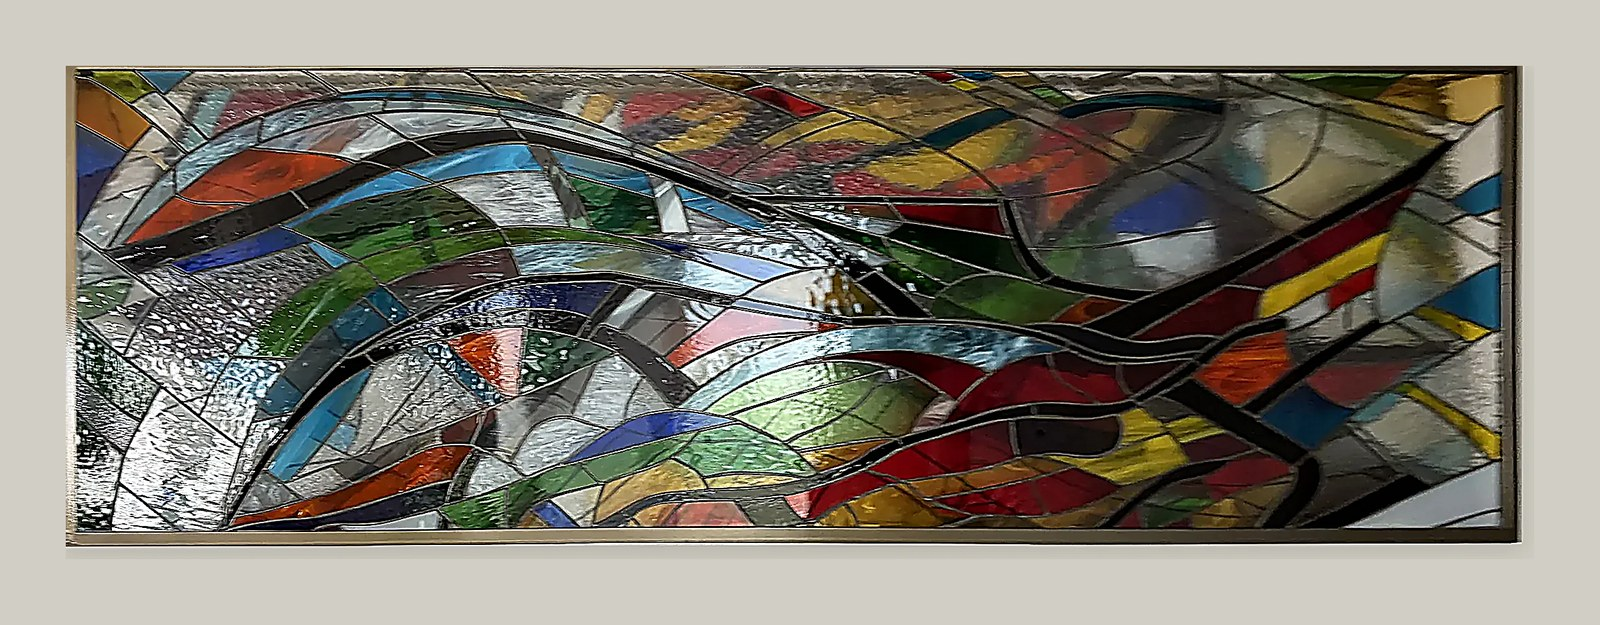
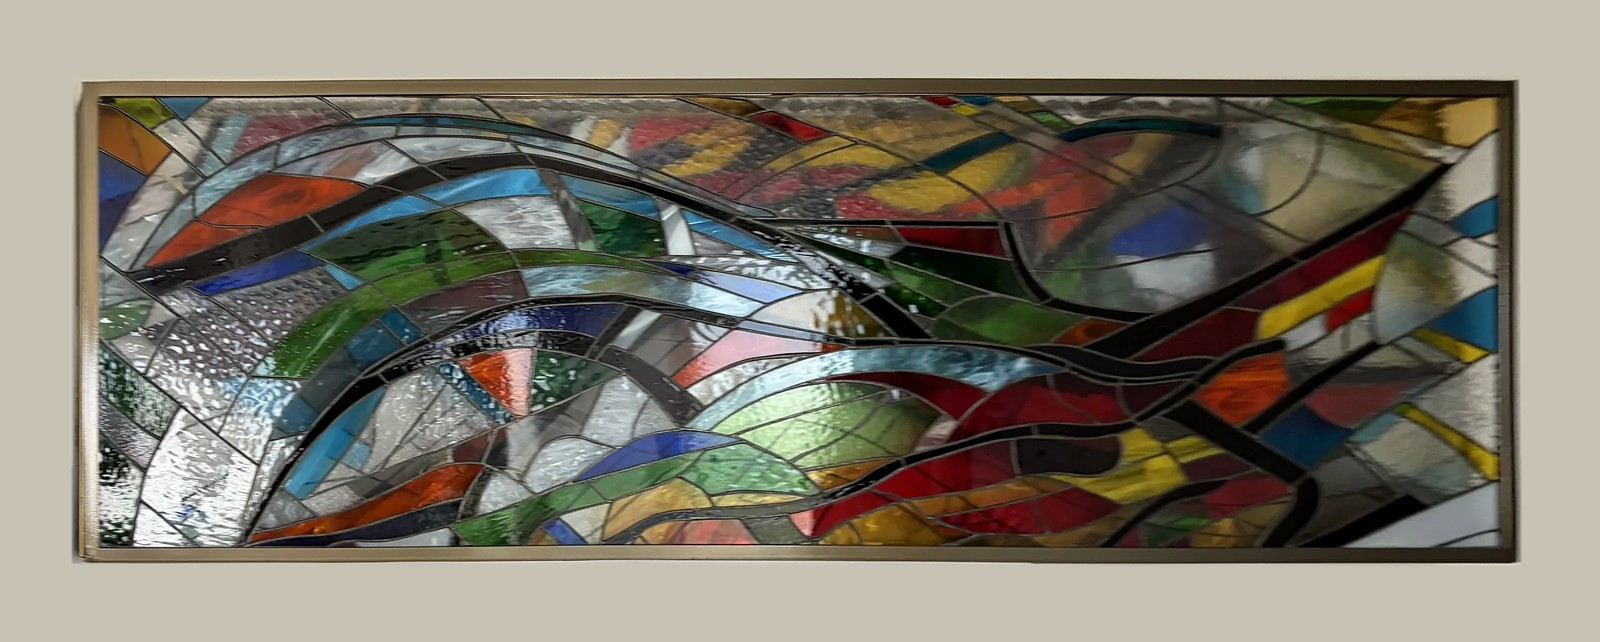
Double Vitrage second photo: original framing back, frame untouched, only the wall evened out
Claude-Session: https://claude.ai/code/session_01H5rr4wkNMnuxgQx68mK7Ng

diff --git a/gallery/double-vitrage/index.html b/gallery/double-vitrage/index.html
@@ -99,7 +99,7 @@
                     <a class="photo-view__arrow photo-view__arrow--next" href="../exhibition-piece/" rel="next" aria-label="Next photo: Epsilon Y"><svg viewBox="0 0 24 24" aria-hidden="true"><path d="M9 5l7 7-7 7"/></svg></a>
                 </div>
                 <div class="photo-more">
-                    <div class="photo-more__item" style="flex:2.561 1 0"><picture><source type="image/webp" srcset="../../img/opt/double-vitrage-02-800.webp?v=2 800w, ../../img/opt/double-vitrage-02-1600.webp?v=2 1600w, ../../img/opt/double-vitrage-02-2400.webp?v=2 2400w" sizes="(max-width: 640px) 100vw, 1000px"><img src="../../img/opt/double-vitrage-02-1600.jpg?v=2" alt="Double Vitrage — Arthemii Ionaere" loading="lazy" decoding="async"></picture></div>
+                    <div class="photo-more__item" style="flex:2.492 1 0"><picture><source type="image/webp" srcset="../../img/opt/double-vitrage-02-800.webp?v=3 800w, ../../img/opt/double-vitrage-02-1600.webp?v=3 1600w, ../../img/opt/double-vitrage-02-2400.webp?v=3 2400w" sizes="(max-width: 640px) 100vw, 1000px"><img src="../../img/opt/double-vitrage-02-1600.jpg?v=3" alt="Double Vitrage — Arthemii Ionaere" loading="lazy" decoding="async"></picture></div>
                 </div>
                 <h1 style="font-family:var(--font-serif);font-size:clamp(1.25rem,3vw,1.75rem);font-weight:400;margin-bottom:var(--spacing-xs)">Double Vitrage</h1>
                 <p style="color:var(--text-secondary);font-size:0.9375rem;line-height:1.7">A double stained glass panel: two layers of stained glass are set one over the other, so that their lines and colours overlap and create an effect of depth that changes with the light and the viewing angle.</p>

diff --git a/de/gallery/double-vitrage/index.html b/de/gallery/double-vitrage/index.html
@@ -99,7 +99,7 @@
                     <a class="photo-view__arrow photo-view__arrow--next" href="../exhibition-piece/" rel="next" aria-label="Next photo: Epsilon Y"><svg viewBox="0 0 24 24" aria-hidden="true"><path d="M9 5l7 7-7 7"/></svg></a>
                 </div>
                 <div class="photo-more">
-                    <div class="photo-more__item" style="flex:2.561 1 0"><picture><source type="image/webp" srcset="../../img/opt/double-vitrage-02-800.webp?v=2 800w, ../../img/opt/double-vitrage-02-1600.webp?v=2 1600w, ../../img/opt/double-vitrage-02-2400.webp?v=2 2400w" sizes="(max-width: 640px) 100vw, 1000px"><img src="../../img/opt/double-vitrage-02-1600.jpg?v=2" alt="Double Vitrage — Arthemii Ionaere" loading="lazy" decoding="async"></picture></div>
+                    <div class="photo-more__item" style="flex:2.492 1 0"><picture><source type="image/webp" srcset="../../img/opt/double-vitrage-02-800.webp?v=3 800w, ../../img/opt/double-vitrage-02-1600.webp?v=3 1600w, ../../img/opt/double-vitrage-02-2400.webp?v=3 2400w" sizes="(max-width: 640px) 100vw, 1000px"><img src="../../img/opt/double-vitrage-02-1600.jpg?v=3" alt="Double Vitrage — Arthemii Ionaere" loading="lazy" decoding="async"></picture></div>
                 </div>
                 <h1 style="font-family:var(--font-serif);font-size:clamp(1.25rem,3vw,1.75rem);font-weight:400;margin-bottom:var(--spacing-xs)">Double Vitrage</h1>
                 <p style="color:var(--text-secondary);font-size:0.9375rem;line-height:1.7">Ein doppeltes Glasbild: Zwei Schichten Bleiglas liegen übereinander, sodass sich Linien und Farben überlagern und eine Tiefenwirkung entsteht, die sich mit dem Licht und dem Blickwinkel verändert.</p>

diff --git a/fr/gallery/double-vitrage/index.html b/fr/gallery/double-vitrage/index.html
@@ -99,7 +99,7 @@
                     <a class="photo-view__arrow photo-view__arrow--next" href="../exhibition-piece/" rel="next" aria-label="Next photo: Epsilon Y"><svg viewBox="0 0 24 24" aria-hidden="true"><path d="M9 5l7 7-7 7"/></svg></a>
                 </div>
                 <div class="photo-more">
-                    <div class="photo-more__item" style="flex:2.561 1 0"><picture><source type="image/webp" srcset="../../img/opt/double-vitrage-02-800.webp?v=2 800w, ../../img/opt/double-vitrage-02-1600.webp?v=2 1600w, ../../img/opt/double-vitrage-02-2400.webp?v=2 2400w" sizes="(max-width: 640px) 100vw, 1000px"><img src="../../img/opt/double-vitrage-02-1600.jpg?v=2" alt="Double Vitrage — Arthemii Ionaere" loading="lazy" decoding="async"></picture></div>
+                    <div class="photo-more__item" style="flex:2.492 1 0"><picture><source type="image/webp" srcset="../../img/opt/double-vitrage-02-800.webp?v=3 800w, ../../img/opt/double-vitrage-02-1600.webp?v=3 1600w, ../../img/opt/double-vitrage-02-2400.webp?v=3 2400w" sizes="(max-width: 640px) 100vw, 1000px"><img src="../../img/opt/double-vitrage-02-1600.jpg?v=3" alt="Double Vitrage — Arthemii Ionaere" loading="lazy" decoding="async"></picture></div>
                 </div>
                 <h1 style="font-family:var(--font-serif);font-size:clamp(1.25rem,3vw,1.75rem);font-weight:400;margin-bottom:var(--spacing-xs)">Double Vitrage</h1>
                 <p style="color:var(--text-secondary);font-size:0.9375rem;line-height:1.7">Un double vitrail : deux couches de vitrail superposées, dont les lignes et les couleurs se chevauchent et créent un effet de profondeur qui change avec la lumière et l’angle de vue.</p>

diff --git a/es/gallery/double-vitrage/index.html b/es/gallery/double-vitrage/index.html
@@ -99,7 +99,7 @@
                     <a class="photo-view__arrow photo-view__arrow--next" href="../exhibition-piece/" rel="next" aria-label="Next photo: Epsilon Y"><svg viewBox="0 0 24 24" aria-hidden="true"><path d="M9 5l7 7-7 7"/></svg></a>
                 </div>
                 <div class="photo-more">
-                    <div class="photo-more__item" style="flex:2.561 1 0"><picture><source type="image/webp" srcset="../../img/opt/double-vitrage-02-800.webp?v=2 800w, ../../img/opt/double-vitrage-02-1600.webp?v=2 1600w, ../../img/opt/double-vitrage-02-2400.webp?v=2 2400w" sizes="(max-width: 640px) 100vw, 1000px"><img src="../../img/opt/double-vitrage-02-1600.jpg?v=2" alt="Double Vitrage — Arthemii Ionaere" loading="lazy" decoding="async"></picture></div>
+                    <div class="photo-more__item" style="flex:2.492 1 0"><picture><source type="image/webp" srcset="../../img/opt/double-vitrage-02-800.webp?v=3 800w, ../../img/opt/double-vitrage-02-1600.webp?v=3 1600w, ../../img/opt/double-vitrage-02-2400.webp?v=3 2400w" sizes="(max-width: 640px) 100vw, 1000px"><img src="../../img/opt/double-vitrage-02-1600.jpg?v=3" alt="Double Vitrage — Arthemii Ionaere" loading="lazy" decoding="async"></picture></div>
                 </div>
                 <h1 style="font-family:var(--font-serif);font-size:clamp(1.25rem,3vw,1.75rem);font-weight:400;margin-bottom:var(--spacing-xs)">Double Vitrage</h1>
                 <p style="color:var(--text-secondary);font-size:0.9375rem;line-height:1.7">Una vidriera doble: dos capas de vidriera superpuestas, de modo que sus líneas y colores se entrecruzan y crean un efecto de profundidad que cambia con la luz y el ángulo de visión.</p>

diff --git a/it/gallery/double-vitrage/index.html b/it/gallery/double-vitrage/index.html
@@ -99,7 +99,7 @@
                     <a class="photo-view__arrow photo-view__arrow--next" href="../exhibition-piece/" rel="next" aria-label="Next photo: Epsilon Y"><svg viewBox="0 0 24 24" aria-hidden="true"><path d="M9 5l7 7-7 7"/></svg></a>
                 </div>
                 <div class="photo-more">
-                    <div class="photo-more__item" style="flex:2.561 1 0"><picture><source type="image/webp" srcset="../../img/opt/double-vitrage-02-800.webp?v=2 800w, ../../img/opt/double-vitrage-02-1600.webp?v=2 1600w, ../../img/opt/double-vitrage-02-2400.webp?v=2 2400w" sizes="(max-width: 640px) 100vw, 1000px"><img src="../../img/opt/double-vitrage-02-1600.jpg?v=2" alt="Double Vitrage — Arthemii Ionaere" loading="lazy" decoding="async"></picture></div>
+                    <div class="photo-more__item" style="flex:2.492 1 0"><picture><source type="image/webp" srcset="../../img/opt/double-vitrage-02-800.webp?v=3 800w, ../../img/opt/double-vitrage-02-1600.webp?v=3 1600w, ../../img/opt/double-vitrage-02-2400.webp?v=3 2400w" sizes="(max-width: 640px) 100vw, 1000px"><img src="../../img/opt/double-vitrage-02-1600.jpg?v=3" alt="Double Vitrage — Arthemii Ionaere" loading="lazy" decoding="async"></picture></div>
                 </div>
                 <h1 style="font-family:var(--font-serif);font-size:clamp(1.25rem,3vw,1.75rem);font-weight:400;margin-bottom:var(--spacing-xs)">Double Vitrage</h1>
                 <p style="color:var(--text-secondary);font-size:0.9375rem;line-height:1.7">Una doppia vetrata: due strati di vetrata sovrapposti, così che linee e colori si intrecciano e creano un effetto di profondità che cambia con la luce e l’angolo di osservazione.</p>
